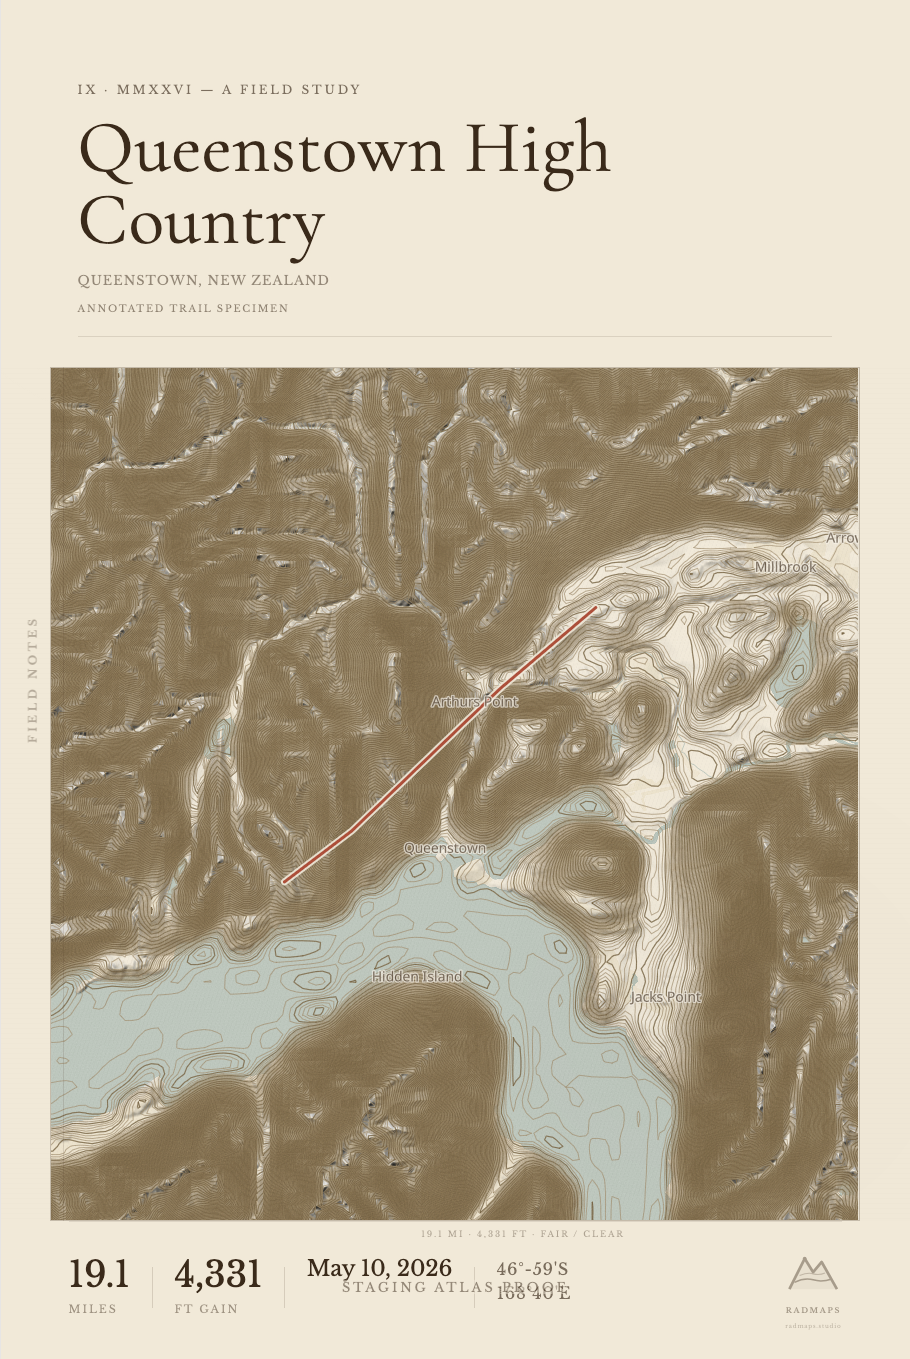
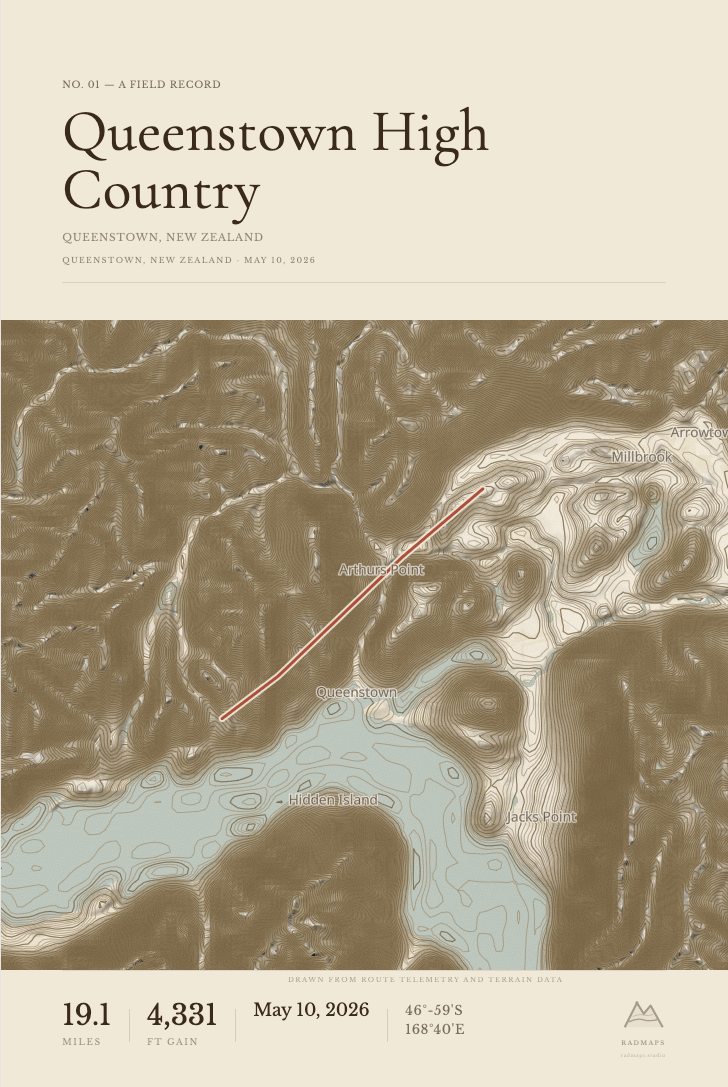
Publish Camino atlas proof metadata

Changed region(s): [[0.0, 0.2732, 1.0, 0.9715], [0.0907, 0.0607, 0.4835, 0.2429], [0.5137, 0.0911, 0.6648, 0.1518]]

diff --git a/pages/style-browser-fixture.vue b/pages/style-browser-fixture.vue
@@ -319,6 +319,18 @@ const sampleRegions: Record<string, {
       [-99.086, 19.456],
     ],
   },
+  camino: {
+    title: 'Camino Frances',
+    location: 'Northern Spain',
+    bbox: [-2.55, 42.38, -1.55, 42.9],
+    route: [
+      [-1.644, 42.812],
+      [-1.814, 42.672],
+      [-2.031, 42.672],
+      [-2.192, 42.552],
+      [-2.445, 42.466],
+    ],
+  },
   newzealand: {
     title: 'Queenstown High Country',
     location: 'Queenstown, New Zealand',
@@ -339,7 +351,7 @@ if (region !== 'chicago') {
     ...styleConfig.value,
     trail_name: sampleRegion.title,
     location_text: sampleRegion.location,
-    occasion_text: 'Staging atlas proof',
+    occasion_text: '',
   }
 }
 const sampleRoute = sampleRegion.route

diff --git a/tests/atlas-coverage-targets.test.ts b/tests/atlas-coverage-targets.test.ts
@@ -81,7 +81,6 @@ describe('atlas coverage target matrix', () => {
 
     expect(firstWave.map(target => target.id)).toEqual([
       'patagonia-andes',
-      'northern-spain-camino',
       'honshu-japan',
     ])
 
@@ -90,5 +89,6 @@ describe('atlas coverage target matrix', () => {
     }
 
     expect(coverageTargets.targets.find(target => target.id === 'new-zealand-outdoor')?.status).toBe('staging-live')
+    expect(coverageTargets.targets.find(target => target.id === 'northern-spain-camino')?.status).toBe('staging-live')
   })
 })

diff --git a/utils/mapToolCatalog.ts b/utils/mapToolCatalog.ts
@@ -130,7 +130,7 @@ export const MAP_TOOL_CATALOG: MapToolCatalogItem[] = [
     attribution: 'OSM attribution remains unless source data is non-OSM or attribution-free.',
     spendRisk: 'Converts variable tile API spend into storage/CDN/build costs.',
     trackingKeys: ['atlas_version', 'tile_schema_version', 'bbox_hash', 'preset', 'enabled_layers', 'render_class', 'atlas_manifest_id', 'atlas_style_id'],
-    notes: 'Staging now has validated contiguous-US, North America, and New Zealand Planetiler PMTiles base atlases in R2. tiles.radmaps.studio is live through the Cloudflare Worker custom domain, with the Vercel shim retained as fallback during DNS cache transition. The next coverage queue is tracked in atlas/coverage-targets.json: promote North America after QA, review New Zealand staging proofs, then build small Patagonia, Northern Spain/Camino, and Honshu/Japan proof packs before any larger Europe/global work. Production still points at Driftless until Atlas Lab, editor, Browserless, attribution, analytics, and rollback QA pass. This is the strategic replacement for most commercial vector/raster basemap dependency.',
+    notes: 'Staging now has validated contiguous-US, North America, New Zealand, and Northern Spain/Camino Planetiler PMTiles base atlases in R2. tiles.radmaps.studio is live through the Cloudflare Worker custom domain, with the Vercel shim retained as fallback during DNS cache transition. The next coverage queue is tracked in atlas/coverage-targets.json: promote North America after QA, review New Zealand and Northern Spain/Camino staging proofs, then build small Patagonia and Honshu/Japan proof packs before any larger Europe/global work. Production still points at Driftless until Atlas Lab, editor, Browserless, attribution, analytics, and rollback QA pass. This is the strategic replacement for most commercial vector/raster basemap dependency.',
   },
   {
     id: 'radmaps-watercolor-tile-compositor',

diff --git a/docs/RADMAPS_ATLAS_BUILD_PIPELINE.md b/docs/RADMAPS_ATLAS_BUILD_PIPELINE.md
@@ -78,9 +78,12 @@ Current entries:
   staging R2 manifest as artifact `radmaps-north-america-base`.
 - `patagonia-andes`: first South America proof pack for Torres del Paine,
   Patagonia hiking/vacation maps, and Carretera Austral-style bikepacking.
-- `northern-spain-camino`: first Europe proof pack for Camino product coverage;
+- `northern-spain-camino`: Europe proof pack for Camino product coverage;
   intentionally uses the Spain extract to keep cost small and defers the French
-  start segment to a later Pyrenees multi-extract or Europe run.
+  start segment to a later Pyrenees multi-extract or Europe run. Staging build
+  `2026.05.27-northern-spain-camino.1` produced a validated `396,275,576` byte
+  PMTiles archive and published it to R2 as artifact
+  `radmaps-northern-spain-camino-base`.
 - `honshu-japan`: first Asia proof pack for Mount Fuji and Japan
   hiking/vacation maps.
 - `new-zealand-outdoor`: outdoor/vacation proof pack for Queenstown, Rotorua,
@@ -127,7 +130,8 @@ Run policy for new coverage targets:
 As of 2026-05-27:
 
 - Staging R2 has full contiguous-U.S. base coverage, North America base
-  coverage, and a New Zealand outdoor proof-pack base artifact.
+  coverage, a New Zealand outdoor proof-pack base artifact, and a Northern
+  Spain/Camino proof-pack base artifact.
 - Staging R2 has 177 verified `us-terrain-phase1` contour PMTiles shards for
   selected U.S. terrain regions. These are retained for QA/history and optional
   cached coverage, not treated as the default global contour strategy.
@@ -170,13 +174,30 @@ New Zealand build details:
 | Live tile check | `/tiles/staging/radmaps-new-zealand-outdoor-base/8/247/164.mvt` -> `90,428` bytes |
 | Rendered review artifact | `artifacts/atlas-review/queenstown-new-zealand-field-topo.png` |
 
+Northern Spain/Camino build details:
+
+| Field | Value |
+|---|---|
+| Workflow run | `26487824348` |
+| Duration | `12m8s` |
+| Atlas version | `2026.05.27-northern-spain-camino.1` |
+| Artifact id | `radmaps-northern-spain-camino-base` |
+| Source | `https://download.geofabrik.de/europe/spain-latest.osm.pbf` |
+| R2 object | `atlas/v1/base/northern-spain-camino/2026-05-27/radmaps-base-northern-spain-camino.pmtiles` |
+| Size | `396,275,576` bytes (`378 MiB`) |
+| ETag | `4fea855986806ff343573599869a0fa7` |
+| Bounds | `[-9.4, 41.7, -0.7, 43.6]` |
+| Zooms | `0-14` |
+| Live tile check | `/tiles/staging/radmaps-northern-spain-camino-base/8/124/94.mvt` -> `97,251` bytes |
+| Rendered review artifact | `artifacts/atlas-review/camino-northern-spain-field-topo.png` |
+
 Current staged manifest details:
 
 | Field | Value |
 |---|---|
 | URL | `https://pub-983952a5b3574ca9aa049741eb7d7ce3.r2.dev/atlas/v1/manifests/staging.json` |
-| Atlas version | `2026.05.27-new-zealand-outdoor.1` |
-| Base artifacts | `3` (`radmaps-us-base`, `radmaps-north-america-base`, `radmaps-new-zealand-outdoor-base`) |
+| Atlas version | `2026.05.27-northern-spain-camino.1` |
+| Base artifacts | `4` (`radmaps-us-base`, `radmaps-north-america-base`, `radmaps-new-zealand-outdoor-base`, `radmaps-northern-spain-camino-base`) |
 | Contour artifacts | `177` |
 | Coverage label | `north-america` |
 
@@ -187,6 +208,14 @@ What remains for the New Zealand proof pack:
 - Confirm runtime contour readiness on dense mountain views and coastal views.
 - Decide whether New Zealand stays staging-only or is copied/promoted with the
   next production manifest after North America passes.
+
+What remains for the Northern Spain/Camino proof pack:
+
+- Render Picos de Europa, Basque Country, and Galicia coast fixtures.
+- Decide whether the Saint-Jean-Pied-de-Port start needs an immediate Pyrenees
+  multi-extract or can wait for a later Europe build.
+- Confirm Camino labels/road/trail density in Field Topo, Simple Contour, and
+  Watercolor review renders.
 
 ## Planetiler Operating Model
 

diff --git a/docs/RADMAPS_ATLAS_STORAGE.md b/docs/RADMAPS_ATLAS_STORAGE.md
@@ -30,12 +30,15 @@ Current staging North America base archive:
 Current staging New Zealand outdoor base archive:
 `atlas/v1/base/new-zealand-outdoor/2026-05-27/radmaps-base-new-zealand-outdoor.pmtiles`
 
+Current staging Northern Spain/Camino base archive:
+`atlas/v1/base/northern-spain-camino/2026-05-27/radmaps-base-northern-spain-camino.pmtiles`
+
 The checked-in staging manifest includes the contiguous-US base atlas, the
-North America base atlas, the New Zealand outdoor base atlas, and the verified
-`us-terrain-phase1` contour shard set from the successful 2026-05-18 build.
-Those contour shards are retained for QA, history, and optional cached coverage
-experiments. They are no longer the default strategy for scaling high-detail
-terrain globally.
+North America base atlas, the New Zealand outdoor base atlas, the Northern
+Spain/Camino base atlas, and the verified `us-terrain-phase1` contour shard set
+from the successful 2026-05-18 build. Those contour shards are retained for QA,
+history, and optional cached coverage experiments. They are no longer the
+default strategy for scaling high-detail terrain globally.
 
 Production direction: build global/North America base archives in R2, but keep
 high-detail terrain browser-rendered through `maplibre-contour` in both editor
@@ -164,6 +167,23 @@ New Zealand outdoor staging verification on 2026-05-27:
   -> `11,954` bytes
 - staging manifest version: `2026.05.27-new-zealand-outdoor.1`
 - staging manifest counts: `3` base artifacts, `177` contour artifacts
+
+Northern Spain/Camino staging verification on 2026-05-27:
+- workflow run: `26487824348`
+- R2 object:
+  `atlas/v1/base/northern-spain-camino/2026-05-27/radmaps-base-northern-spain-camino.pmtiles`
+- public URL:
+  `https://pub-983952a5b3574ca9aa049741eb7d7ce3.r2.dev/atlas/v1/base/northern-spain-camino/2026-05-27/radmaps-base-northern-spain-camino.pmtiles`
+- bytes: `396,275,576`
+- ETag: `4fea855986806ff343573599869a0fa7`
+- bounds: `[-9.4, 41.7, -0.7, 43.6]`
+- zooms: `0-14`
+- tile checks through `tiles.radmaps.studio`:
+  `/tiles/staging/radmaps-northern-spain-camino-base/8/124/94.mvt` -> `97,251`
+  bytes and `/tiles/staging/radmaps-northern-spain-camino-base/10/499/378.mvt`
+  -> `25,960` bytes
+- staging manifest version: `2026.05.27-northern-spain-camino.1`
+- staging manifest counts: `4` base artifacts, `177` contour artifacts
 
 Regional terrain showcase verification on 2026-05-17:
 - workflow: `.github/workflows/atlas-terrain-pack.yml`

diff --git a/docs/RADMAPS_ATLAS_COVERAGE_EXPANSION_PLAN.md b/docs/RADMAPS_ATLAS_COVERAGE_EXPANSION_PLAN.md
@@ -7,8 +7,9 @@ builds.
 
 ## Current Baseline
 
-- Staging R2 has contiguous U.S., North America, and New Zealand base PMTiles.
-- The active staging manifest is `2026.05.27-new-zealand-outdoor.1`.
+- Staging R2 has contiguous U.S., North America, New Zealand, and Northern
+  Spain/Camino base PMTiles.
+- The active staging manifest is `2026.05.27-northern-spain-camino.1`.
 - Production still points at the Driftless manifest until tile routing,
   Browserless rendering, attribution, analytics, and rollback checks pass.
 - High-detail terrain remains browser/Browserless-generated through
@@ -75,6 +76,23 @@ builds.
     bytes.
 - Rendered review artifact:
   `artifacts/atlas-review/queenstown-new-zealand-field-topo.png`.
+- `northern-spain-camino` completed a real staging build in workflow run
+  `26487824348`.
+- Northern Spain artifact details:
+  - artifact id: `radmaps-northern-spain-camino-base`
+  - atlas version: `2026.05.27-northern-spain-camino.1`
+  - object path:
+    `atlas/v1/base/northern-spain-camino/2026-05-27/radmaps-base-northern-spain-camino.pmtiles`
+  - size: `396,275,576` bytes
+  - bounds: `[-9.4, 41.7, -0.7, 43.6]`
+  - zooms: `0-14`
+- Public tile checks through `tiles.radmaps.studio`:
+  - `/tiles/staging/radmaps-northern-spain-camino-base/8/124/94.mvt` ->
+    `97,251` bytes.
+  - `/tiles/staging/radmaps-northern-spain-camino-base/10/499/378.mvt` ->
+    `25,960` bytes.
+- Rendered review artifact:
+  `artifacts/atlas-review/camino-northern-spain-field-topo.png`.
 
 ## Coverage Target Matrix
 
@@ -86,9 +104,8 @@ Current priority order:
 
 1. Promote the already-built North America base atlas after QA.
 2. Build small global proof packs for current premade regions:
-   Patagonia, Northern Spain/Camino, and Honshu/Japan.
-3. Review the live New Zealand staging proof pack across Queenstown, Rotorua,
-   Great Walks, and bikepacking fixtures.
+   Patagonia and Honshu/Japan.
+3. Review the live New Zealand and Northern Spain/Camino staging proof packs.
 4. Defer Alps/Dolomites, Atlantic islands, Peru/Ecuador Andes, Nepal,
    Iceland/Scotland, and Costa Rica until source selection, DEM QA, or demand
    justifies the spend.

diff --git a/docs/RADMAPS_ATLAS_PRODUCTION_PLAN.md b/docs/RADMAPS_ATLAS_PRODUCTION_PLAN.md
@@ -35,8 +35,13 @@ Completed:
   z0-14.
 - The New Zealand archive is `403,714,835` bytes and verified through
   `tiles.radmaps.studio` tile checks.
-- The staging manifest is now `2026.05.27-new-zealand-outdoor.1` with `3` base
-  artifacts and `177` contour artifacts.
+- Northern Spain/Camino PMTiles exist in staging R2 as
+  `radmaps-northern-spain-camino-base`, covering `[-9.4, 41.7, -0.7, 43.6]`
+  at z0-14.
+- The Northern Spain archive is `396,275,576` bytes and verified through
+  `tiles.radmaps.studio` tile checks.
+- The staging manifest is now `2026.05.27-northern-spain-camino.1` with `4`
+  base artifacts and `177` contour artifacts.
 - Atlas styles, watercolor, route-under-label ordering, manifest
   resolution, usage-event hardening, hosted tile-service code, and
   documentation/catalog pages have been added on the Atlas branch.
@@ -134,8 +139,9 @@ Global release should include:
 
 First global proof-pack queue:
 - New Zealand outdoor is live in staging and ready for broader visual review.
-- Patagonia Andes, Northern Spain/Camino, and Honshu/Japan have passed dry-run
-  build dispatch and remain the next small real builds.
+- Northern Spain/Camino is live in staging and ready for broader visual review.
+- Patagonia Andes and Honshu/Japan have passed dry-run build dispatch and
+  remain the next small real builds.
 
 ## Artifact Storage
 
@@ -183,6 +189,7 @@ tiles.radmaps.studio/
         us/2026-05-15/radmaps-base-us.pmtiles
         north-america/2026-07-01/radmaps-base-north-america.pmtiles
         new-zealand-outdoor/2026-05-27/radmaps-base-new-zealand-outdoor.pmtiles
+        northern-spain-camino/2026-05-27/radmaps-base-northern-spain-camino.pmtiles
         globe/2026-09-01/radmaps-base-globe.pmtiles
       terrain/
         cache/...

diff --git a/docs/MAP_TOOLS_CATALOG.md b/docs/MAP_TOOLS_CATALOG.md
@@ -35,7 +35,7 @@ flowchart LR
 | MapTiler Raster Styles | `maptiler-outdoor`, `maptiler-topo`, `maptiler-winter`, `alidade-smooth`, `alidade-smooth-dark` | Active | Paid/custom | Baked raster outdoor/topo/winter/dataviz styles | `base_tile_style`, `tile_effect`, `tile_contrast`, `tile_saturation`, `tile_hue_rotate` | Requires MapTiler and OpenStreetMap attribution unless written terms and non-OSM data remove parts of it. |
 | Stadia/Stamen | `stadia-watercolor`, `stadia-toner` | Active | Paid/commercial license | Watercolor and toner raster art; toner label-family toggle | `show_place_labels`, `tile_effect`, `tile_contrast`, `tile_saturation`, `tile_hue_rotate` | Requires Stadia, Stamen, and source-data attribution; commercial use requires Stadia licensing. |
 | AWS Terrain Tiles / Mapzen DEM | `mapbox-dem` source name, browser contour DEM, hillshade DEM | Active | Free public source | Terrarium DEM tiles for hillshade, browser contours, terrain exaggeration | `show_hillshade`, `hillshade_intensity`, `show_contours`, `contour_detail`, `map_3d`, `terrain_exaggeration` | Requires Mapzen/OpenStreetMap attribution where derived terrain layers are visible. |
-| RadMaps Open Vector Atlas | `radmaps-vector`, `radmaps-roads`, `radmaps-water`, `radmaps-labels`, Atlas Lab house styles including `RadMaps Contour Wash` | Beta | Self-hosted | Staging R2 PMTiles base atlas for contiguous U.S., North America, and New Zealand; hosted tile contract at `tiles.radmaps.studio`; water, waterways, transportation/roads, trails, labels, POIs, buildings, landuse, parks/forests. Production still points at Driftless until QA/promotion. | Full vector paint/layout control for layer families; current Planetiler transportation geometry is documented as polygon-compatible with line fallback styling | OSM attribution remains unless source data is non-OSM or attribution-free. |
+| RadMaps Open Vector Atlas | `radmaps-vector`, `radmaps-roads`, `radmaps-water`, `radmaps-labels`, Atlas Lab house styles including `RadMaps Contour Wash` | Beta | Self-hosted | Staging R2 PMTiles base atlas for contiguous U.S., North America, New Zealand, and Northern Spain/Camino; hosted tile contract at `tiles.radmaps.studio`; water, waterways, transportation/roads, trails, labels, POIs, buildings, landuse, parks/forests. Production still points at Driftless until QA/promotion. | Full vector paint/layout control for layer families; current Planetiler transportation geometry is documented as polygon-compatible with line fallback styling | OSM attribution remains unless source data is non-OSM or attribution-free. |
 | RadMaps Watercolor Geometry Painter | `watercolortile://`, `/api/watercolor/tiles/base`, `radmaps-watercolor` | Beta | Self-hosted server PNG tiles with browser protocol cache/status | Same-origin Atlas MVT tiles converted into deterministic 512px watercolor raster tiles by preserving feature geometry, painting water/park washes, brush-painted roads/trails/waterways, sketched boundaries/buildings, world-aligned paper/pigment textures, and crisp vector labels/route above. Legacy `radmaps-watercolor-*` ids are hidden aliases for saved maps. | `watercolor_seed`, canonical recipe, `atlas_layers`, `atlas_layer_settings`, `water_color`, `land_color`, `roads_color`, `show_roads` | Inherits RadMaps Atlas/OpenStreetMap attribution. Does not ship Stamen/Stadia watercolor raster assets. |
 | RadMaps Terrain Runtime | `radmaps-terrain`, browser-generated `contours`, `radmaps-hillshade`, `RadMaps Simple Contour` | Beta | Browser/Browserless compute first; self-hosted cache later only if needed | Atlas styles now prefer browser-generated `maplibre-contour` output from Terrarium DEM in both editor and Browserless print renders. Existing R2 contour PMTiles remain QA/history/coverage experiments, not the global production default. | `show_contours`, `contour_detail`, `contour_*`, `show_hillshade`, `hillshade_intensity`, `terrain_exaggeration`, Atlas style ids | Requires Mapzen/OpenStreetMap attribution where derived terrain layers are visible. Cached/self-hosted terrain artifacts must carry source DEM metadata. |
 | NAIP Aerial Imagery | `naip-aerial-us`, `Aerial Edition USA` | Candidate | Self-hosted | 0.6m to 1m public-domain US aerial imagery, natural color and potential false-color variants | `imagery_opacity`, `imagery_saturation`, `imagery_contrast`, `imagery_tint`, vector overlay attributes | Public domain, but credit USDA/USGS/NAIP for product clarity and data lineage. |
@@ -46,7 +46,7 @@ Current owned-atlas coverage accounting:
 
 | Environment | Base coverage | Terrain/contour coverage | Customer status |
 |---|---|---|---|
-| `staging` | Contiguous U.S., North America, and New Zealand base artifacts in R2. Main artifact ids: `radmaps-us-base`, `radmaps-north-america-base`, `radmaps-new-zealand-outdoor-base`. | `177` `us-terrain-phase1` contour shards retained for QA/cache experiments; default strategy is browser-rendered contours. | Hosted at `tiles.radmaps.studio` through the Cloudflare Worker custom domain and verified at `radmaps-atlas-tiles.radmaps-atlas.workers.dev`; the Vercel shim remains as fallback during DNS cache transition. |
+| `staging` | Contiguous U.S., North America, New Zealand, and Northern Spain/Camino base artifacts in R2. Main artifact ids: `radmaps-us-base`, `radmaps-north-america-base`, `radmaps-new-zealand-outdoor-base`, `radmaps-northern-spain-camino-base`. | `177` `us-terrain-phase1` contour shards retained for QA/cache experiments; default strategy is browser-rendered contours. | Hosted at `tiles.radmaps.studio` through the Cloudflare Worker custom domain and verified at `radmaps-atlas-tiles.radmaps-atlas.workers.dev`; the Vercel shim remains as fallback during DNS cache transition. |
 | `production` | Driftless production manifest only. | Driftless contour artifact only, plus existing live provider/runtime terrain paths. | Current production safety baseline until Atlas QA/promotion passes. |
 
 The next production step is not more precomputed terrain. It is to prove the